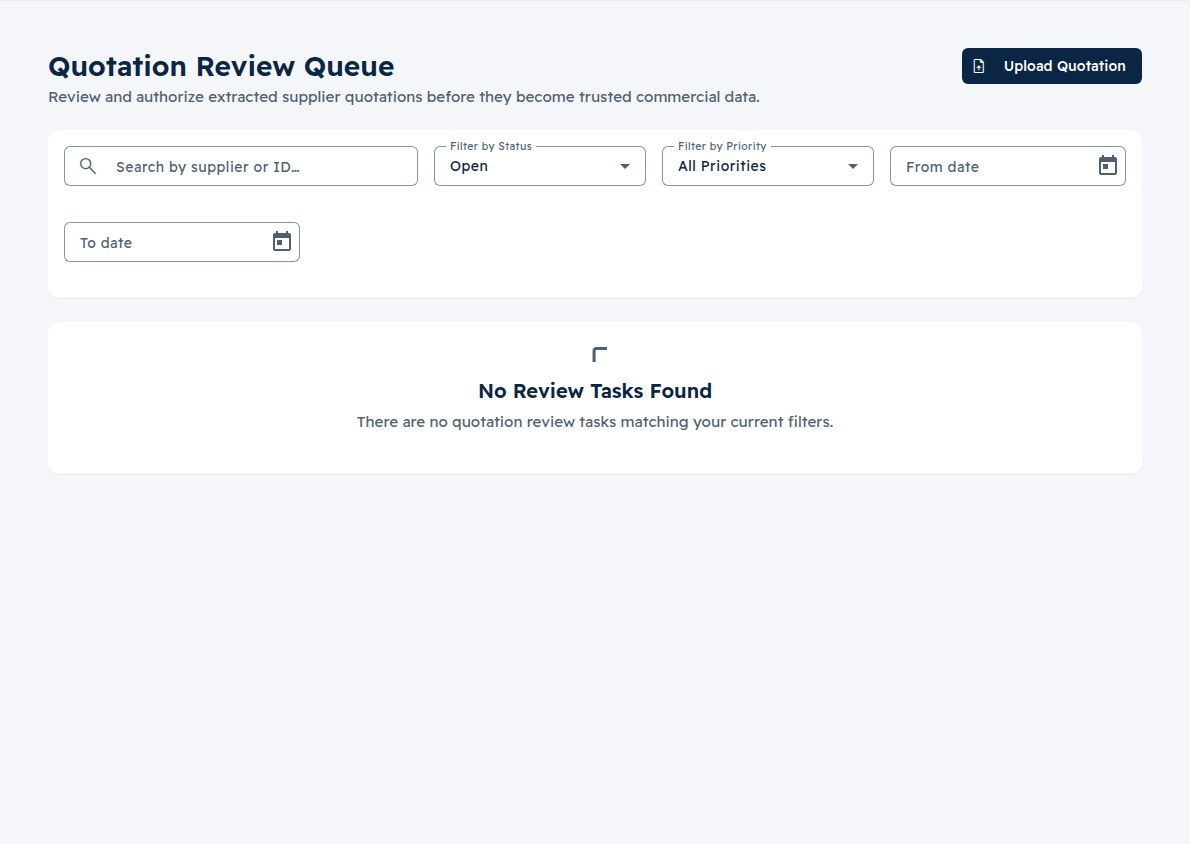
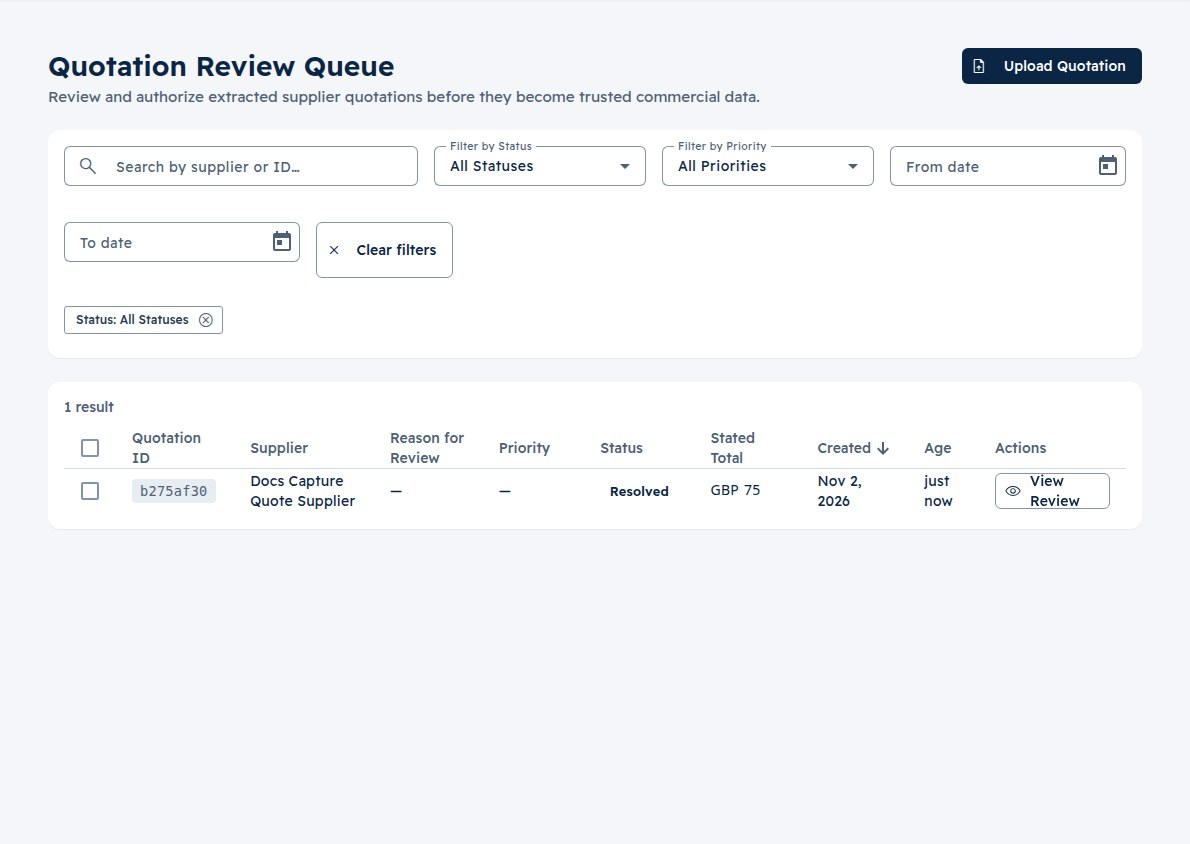
fix(quotations): the inbox re-reads its filters when the URL changes on the same route (PPS-163)

diff --git a/apps/web/src/app/features/quotations/review-queue/review-queue.component.spec.ts b/apps/web/src/app/features/quotations/review-queue/review-queue.component.spec.ts
@@ -1,9 +1,9 @@
 import { ComponentFixture, TestBed } from '@angular/core/testing';
 import { signal, type WritableSignal } from '@angular/core';
 import { MatSnackBar } from '@angular/material/snack-bar';
-import { Router, convertToParamMap, provideRouter } from '@angular/router';
+import { Router, type ParamMap, convertToParamMap, provideRouter } from '@angular/router';
 import { TranslateService, provideTranslateService } from '@ngx-translate/core';
-import { Subject, of, throwError } from 'rxjs';
+import { BehaviorSubject, Subject, of, throwError } from 'rxjs';
 
 import enCatalog from '../../../../../../../packages/i18n/en.json';
 import { ApiService } from '../../../core/api/api.service';
@@ -677,6 +677,7 @@ describe('ReviewQueueComponent (T052)', () => {
           snapshot: {
             queryParamMap: convertToParamMap(queryParams),
           },
+          queryParamMap: of(convertToParamMap(queryParams)),
         };
 
         const initFixture = TestBed.createComponent(ReviewQueueComponent);
@@ -722,6 +723,7 @@ describe('ReviewQueueComponent (T052)', () => {
           snapshot: {
             queryParamMap: convertToParamMap(invalidParams),
           },
+          queryParamMap: of(convertToParamMap(invalidParams)),
         };
 
         const initFixture = TestBed.createComponent(ReviewQueueComponent);
@@ -748,6 +750,141 @@ describe('ReviewQueueComponent (T052)', () => {
           sort_by: 'created_at',
           sort_order: 'desc',
         });
+      });
+    });
+
+    describe('URL queryParamMap reactive subscription', () => {
+      it('loads tasks exactly once on init', () => {
+        const queryParamMap$ = new BehaviorSubject<ParamMap>(
+          convertToParamMap({ status: 'in_progress', priority: 'high' }),
+        );
+        const stubRoute = {
+          snapshot: { queryParamMap: queryParamMap$.value },
+          queryParamMap: queryParamMap$,
+        };
+
+        const testFixture = TestBed.createComponent(ReviewQueueComponent);
+        (testFixture.componentInstance as unknown as { route: typeof stubRoute }).route = stubRoute;
+        apiService.getReviewTasks.calls.reset();
+
+        testFixture.detectChanges();
+
+        expect(apiService.getReviewTasks).toHaveBeenCalledTimes(1);
+        expect(testFixture.componentInstance.statusFilter()).toBe('in_progress');
+        expect(testFixture.componentInstance.priorityFilter()).toBe('high');
+      });
+
+      it('does not reload when emitted params are equal to current state', () => {
+        const queryParamMap$ = new BehaviorSubject<ParamMap>(
+          convertToParamMap({ status: 'resolved', priority: 'low' }),
+        );
+        const stubRoute = {
+          snapshot: { queryParamMap: queryParamMap$.value },
+          queryParamMap: queryParamMap$,
+        };
+
+        const testFixture = TestBed.createComponent(ReviewQueueComponent);
+        (testFixture.componentInstance as unknown as { route: typeof stubRoute }).route = stubRoute;
+        testFixture.detectChanges();
+
+        expect(testFixture.componentInstance.statusFilter()).toBe('resolved');
+        expect(testFixture.componentInstance.priorityFilter()).toBe('low');
+
+        apiService.getReviewTasks.calls.reset();
+        queryParamMap$.next(convertToParamMap({ status: 'resolved', priority: 'low' }));
+
+        expect(apiService.getReviewTasks).not.toHaveBeenCalled();
+      });
+
+      it('restores state and reloads once when different params are emitted (e.g. browser back)', () => {
+        const queryParamMap$ = new BehaviorSubject<ParamMap>(
+          convertToParamMap({ status: 'resolved', priority: 'high' }),
+        );
+        const stubRoute = {
+          snapshot: { queryParamMap: queryParamMap$.value },
+          queryParamMap: queryParamMap$,
+        };
+
+        const testFixture = TestBed.createComponent(ReviewQueueComponent);
+        (testFixture.componentInstance as unknown as { route: typeof stubRoute }).route = stubRoute;
+        testFixture.detectChanges();
+
+        apiService.getReviewTasks.calls.reset();
+        queryParamMap$.next(
+          convertToParamMap({
+            status: 'in_progress',
+            priority: 'low',
+            search: 'Widget',
+            sort: 'stated_total',
+            order: 'asc',
+          }),
+        );
+
+        const comp = testFixture.componentInstance;
+        expect(comp.statusFilter()).toBe('in_progress');
+        expect(comp.priorityFilter()).toBe('low');
+        expect(comp.searchQuery()).toBe('Widget');
+        expect(comp.sortBy()).toBe('stated_total');
+        expect(comp.sortOrder()).toBe('asc');
+        expect(apiService.getReviewTasks).toHaveBeenCalledTimes(1);
+        expect(apiService.getReviewTasks).toHaveBeenCalledWith(
+          jasmine.objectContaining({
+            status: 'in_progress',
+            priority: 'low',
+            search: 'Widget',
+            sort_by: 'stated_total',
+            sort_order: 'asc',
+          }),
+        );
+      });
+
+      it('resets filters to defaults and reloads once when params with no filters are emitted after filtered state', () => {
+        const queryParamMap$ = new BehaviorSubject<ParamMap>(
+          convertToParamMap({
+            status: 'resolved',
+            priority: 'high',
+            search: 'Acme',
+            date_from: '2026-08-01',
+            date_to: '2026-08-31',
+            sort: 'stated_total',
+            order: 'asc',
+          }),
+        );
+        const stubRoute = {
+          snapshot: { queryParamMap: queryParamMap$.value },
+          queryParamMap: queryParamMap$,
+        };
+
+        const testFixture = TestBed.createComponent(ReviewQueueComponent);
+        (testFixture.componentInstance as unknown as { route: typeof stubRoute }).route = stubRoute;
+        testFixture.detectChanges();
+
+        const comp = testFixture.componentInstance;
+        expect(comp.statusFilter()).toBe('resolved');
+        expect(comp.priorityFilter()).toBe('high');
+
+        apiService.getReviewTasks.calls.reset();
+        queryParamMap$.next(convertToParamMap({}));
+
+        expect(comp.statusFilter()).toBe('open');
+        expect(comp.priorityFilter()).toBe('all');
+        expect(comp.searchQuery()).toBe('');
+        expect(comp.dateFrom()).toBeNull();
+        expect(comp.dateTo()).toBeNull();
+        expect(comp.sortBy()).toBe('created_at');
+        expect(comp.sortOrder()).toBe('desc');
+        expect(apiService.getReviewTasks).toHaveBeenCalledTimes(1);
+        expect(apiService.getReviewTasks).toHaveBeenCalledWith(
+          jasmine.objectContaining({
+            status: 'open',
+            priority: undefined,
+            search: undefined,
+            date_from: undefined,
+            date_to: undefined,
+            sort_by: 'created_at',
+            sort_order: 'desc',
+          }),
+        );
       });
     });
 

diff --git a/apps/web/src/app/features/quotations/review-queue/review-queue.component.ts b/apps/web/src/app/features/quotations/review-queue/review-queue.component.ts
@@ -1,5 +1,6 @@
 import { HttpErrorResponse } from '@angular/common/http';
-import { Component, OnInit, computed, inject, signal, ChangeDetectionStrategy } from '@angular/core';
+import { Component, DestroyRef, OnInit, computed, inject, signal, ChangeDetectionStrategy } from '@angular/core';
+import { takeUntilDestroyed } from '@angular/core/rxjs-interop';
 import { FormsModule } from '@angular/forms';
 import { MatButtonModule } from '@angular/material/button';
 import { MatCardModule } from '@angular/material/card';
@@ -16,9 +17,9 @@ import { MatSnackBar, MatSnackBarModule } from '@angular/material/snack-bar';
 import { MatSortModule, type Sort } from '@angular/material/sort';
 import { MatTableModule } from '@angular/material/table';
 import { MatTooltipModule } from '@angular/material/tooltip';
-import { ActivatedRoute, Router, RouterLink } from '@angular/router';
+import { ActivatedRoute, Router, RouterLink, convertToParamMap, type ParamMap } from '@angular/router';
 import { TranslatePipe, TranslateService } from '@ngx-translate/core';
-import { Subscription } from 'rxjs';
+import { Subscription, of } from 'rxjs';
 
 import { ApiService } from '../../../core/api/api.service';
 import type { ApiError, ReviewTask, ReviewTaskPriority, ReviewTaskStatus } from '../../../core/api/models';
@@ -70,6 +71,7 @@ export class ReviewQueueComponent implements OnInit {
   private readonly translate = inject(TranslateService);
   private readonly router = inject(Router);
   private readonly route = inject(ActivatedRoute);
+  private readonly destroyRef = inject(DestroyRef);
 
   readonly isLoading = signal<boolean>(true);
   readonly isLoadingMore = signal<boolean>(false);
@@ -95,6 +97,8 @@ export class ReviewQueueComponent implements OnInit {
   private searchDebounce: ReturnType<typeof setTimeout> | null = null;
   private loadTasksSub: Subscription | null = null;
   private loadMoreSub: Subscription | null = null;
+  private isInitialLoad = true;
+  private queryParamSub: Subscription | null = null;
 
   readonly isWriter = computed<boolean>(() => this.session.hasRole('owner', 'buyer'));
   readonly hasSelection = computed<boolean>(() => this.selectedTaskIds().size > 0);
@@ -139,8 +143,14 @@ export class ReviewQueueComponent implements OnInit {
   );
 
   ngOnInit(): void {
-    this.restoreFiltersFromUrl();
-    this.loadTasks();
+    this.queryParamSub?.unsubscribe();
+    const queryParamMap$ =
+      this.route.queryParamMap ?? of(this.route.snapshot?.queryParamMap ?? convertToParamMap({}));
+    this.queryParamSub = queryParamMap$
+      .pipe(takeUntilDestroyed(this.destroyRef))
+      .subscribe((params) => {
+        this.handleQueryParamChange(params);
+      });
   }
 
   loadTasks(preserveFailedTasks?: readonly ReviewTask[]): void {
@@ -607,29 +617,94 @@ export class ReviewQueueComponent implements OnInit {
     return date.getFullYear() === y && date.getMonth() === m - 1 && date.getDate() === d;
   }
 
-  private restoreFiltersFromUrl(): void {
-    const params = this.route.snapshot.queryParamMap;
-
+  private parseFiltersFromParams(params: ParamMap): {
+    status: ReviewTaskStatus | 'all';
+    priority: ReviewTaskPriority | 'all';
+    search: string;
+    dateFrom: string | null;
+    dateTo: string | null;
+    sortBy: ReviewTaskSortBy;
+    sortOrder: ReviewTaskSortOrder;
+  } {
     const status = params.get('status');
-    this.statusFilter.set(status && this.isValidStatus(status) ? status : 'open');
-
     const priority = params.get('priority');
-    this.priorityFilter.set(priority && this.isValidPriority(priority) ? priority : 'all');
-
     const search = params.get('search');
-    this.searchQuery.set(search ? search.trim() : '');
-
     const dateFrom = params.get('date_from');
-    this.dateFrom.set(dateFrom && this.isValidDateString(dateFrom) ? dateFrom : null);
-
     const dateTo = params.get('date_to');
-    this.dateTo.set(dateTo && this.isValidDateString(dateTo) ? dateTo : null);
-
     const sort = params.get('sort');
-    this.sortBy.set(sort && this.isSortableColumn(sort) ? sort : 'created_at');
-
     const order = params.get('order');
-    this.sortOrder.set(order === 'asc' || order === 'desc' ? order : 'desc');
+
+    return {
+      status: status && this.isValidStatus(status) ? status : 'open',
+      priority: priority && this.isValidPriority(priority) ? priority : 'all',
+      search: search ? search.trim() : '',
+      dateFrom: dateFrom && this.isValidDateString(dateFrom) ? dateFrom : null,
+      dateTo: dateTo && this.isValidDateString(dateTo) ? dateTo : null,
+      sortBy: sort && this.isSortableColumn(sort) ? sort : 'created_at',
+      sortOrder: order === 'asc' || order === 'desc' ? order : 'desc',
+    };
+  }
+
+  private hasFilterStateChanged(target: {
+    status: ReviewTaskStatus | 'all';
+    priority: ReviewTaskPriority | 'all';
+    search: string;
+    dateFrom: string | null;
+    dateTo: string | null;
+    sortBy: ReviewTaskSortBy;
+    sortOrder: ReviewTaskSortOrder;
+  }): boolean {
+    return (
+      this.statusFilter() !== target.status ||
+      this.priorityFilter() !== target.priority ||
+      this.searchQuery().trim() !== target.search ||
+      this.dateFrom() !== target.dateFrom ||
+      this.dateTo() !== target.dateTo ||
+      this.sortBy() !== target.sortBy ||
+      this.sortOrder() !== target.sortOrder
+    );
+  }
+
+  private applyFilterState(target: {
+    status: ReviewTaskStatus | 'all';
+    priority: ReviewTaskPriority | 'all';
+    search: string;
+    dateFrom: string | null;
+    dateTo: string | null;
+    sortBy: ReviewTaskSortBy;
+    sortOrder: ReviewTaskSortOrder;
+  }): void {
+    this.statusFilter.set(target.status);
+    this.priorityFilter.set(target.priority);
+    this.searchQuery.set(target.search);
+    this.dateFrom.set(target.dateFrom);
+    this.dateTo.set(target.dateTo);
+    this.sortBy.set(target.sortBy);
+    this.sortOrder.set(target.sortOrder);
+  }
+
+  private handleQueryParamChange(params: ParamMap): void {
+    const target = this.parseFiltersFromParams(params);
+    if (this.isInitialLoad) {
+      this.isInitialLoad = false;
+      this.applyFilterState(target);
+      this.loadTasks();
+      return;
+    }
+
+    if (this.hasFilterStateChanged(target)) {
+      if (this.searchDebounce) {
+        clearTimeout(this.searchDebounce);
+        this.searchDebounce = null;
+      }
+      this.applyFilterState(target);
+      this.loadTasks();
+    }
+  }
+
+  private restoreFiltersFromUrl(): void {
+    const params = this.route.snapshot?.queryParamMap ?? convertToParamMap({});
+    this.applyFilterState(this.parseFiltersFromParams(params));
   }
 
   private buildQueryParams(): Record<string, string | null> {
